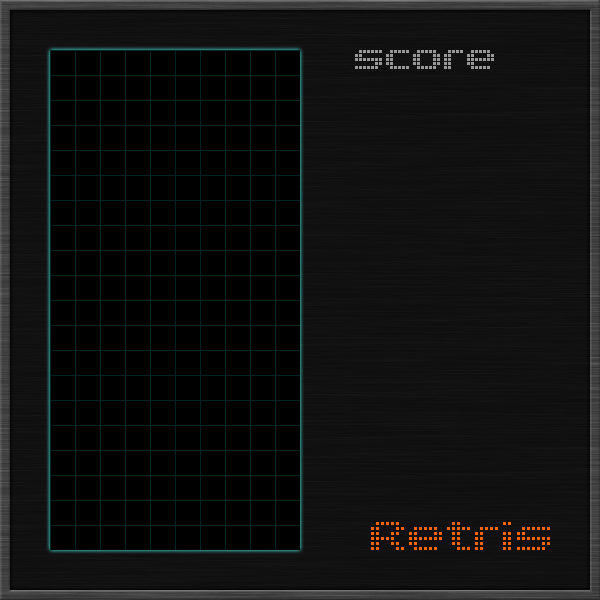
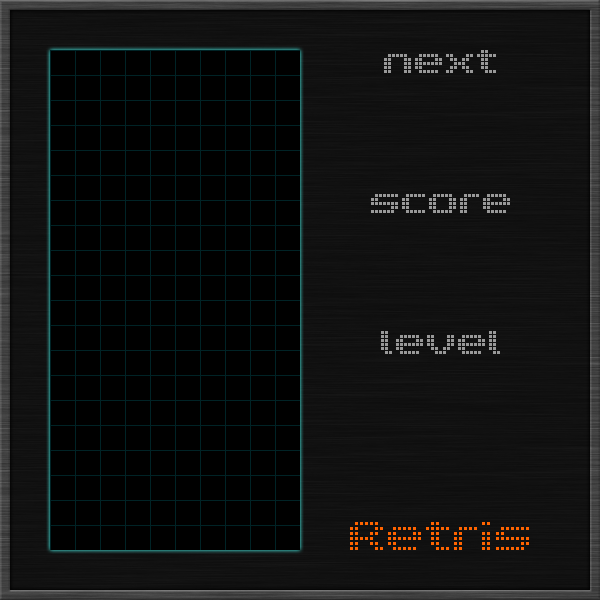
Updated background image to allocate room for next shape and current difficult level. Shortenend the delay when restarting music.

diff --git a/states/playing_state.rb b/states/playing_state.rb
@@ -10,6 +10,7 @@ class PlayingState < StateMachine
     @tetris = base.game_objects[:tetris]
     @song = Gosu::Sample.new(base, 'media/score-2.mp3')
     @song_instance = @song.play
+    @current_difficult_level = Gosu::Font.new(base, Gosu::default_font_name, 40)
   end
   
   def update    
@@ -73,7 +74,7 @@ class PlayingState < StateMachine
       unless @tetris.player_lost? or @song_instance.playing?
         @delay_before_replay ||= Gosu::milliseconds
         
-        if Gosu::milliseconds > @delay_before_replay + 3000
+        if Gosu::milliseconds > @delay_before_replay + 1000
           @delay_before_replay = nil
           @song_instance = @song.play
         end
@@ -89,7 +90,7 @@ class PlayingState < StateMachine
     @background.draw(0, 0, 0)
     @grid.draw
     @cursor.draw
-    @score.draw_rel(@tetris.score.to_s.rjust(6, '0'), 425, 100, 1, 0.5, 0.5, 1, 1, 0xffffffff, :default)
+    @score.draw_rel(@tetris.score.to_s.rjust(6, '0'), 440, 250, 1, 0.5, 0.5, 1, 1, 0xffffffff, :default)
   end
   
   def button_down(id)
